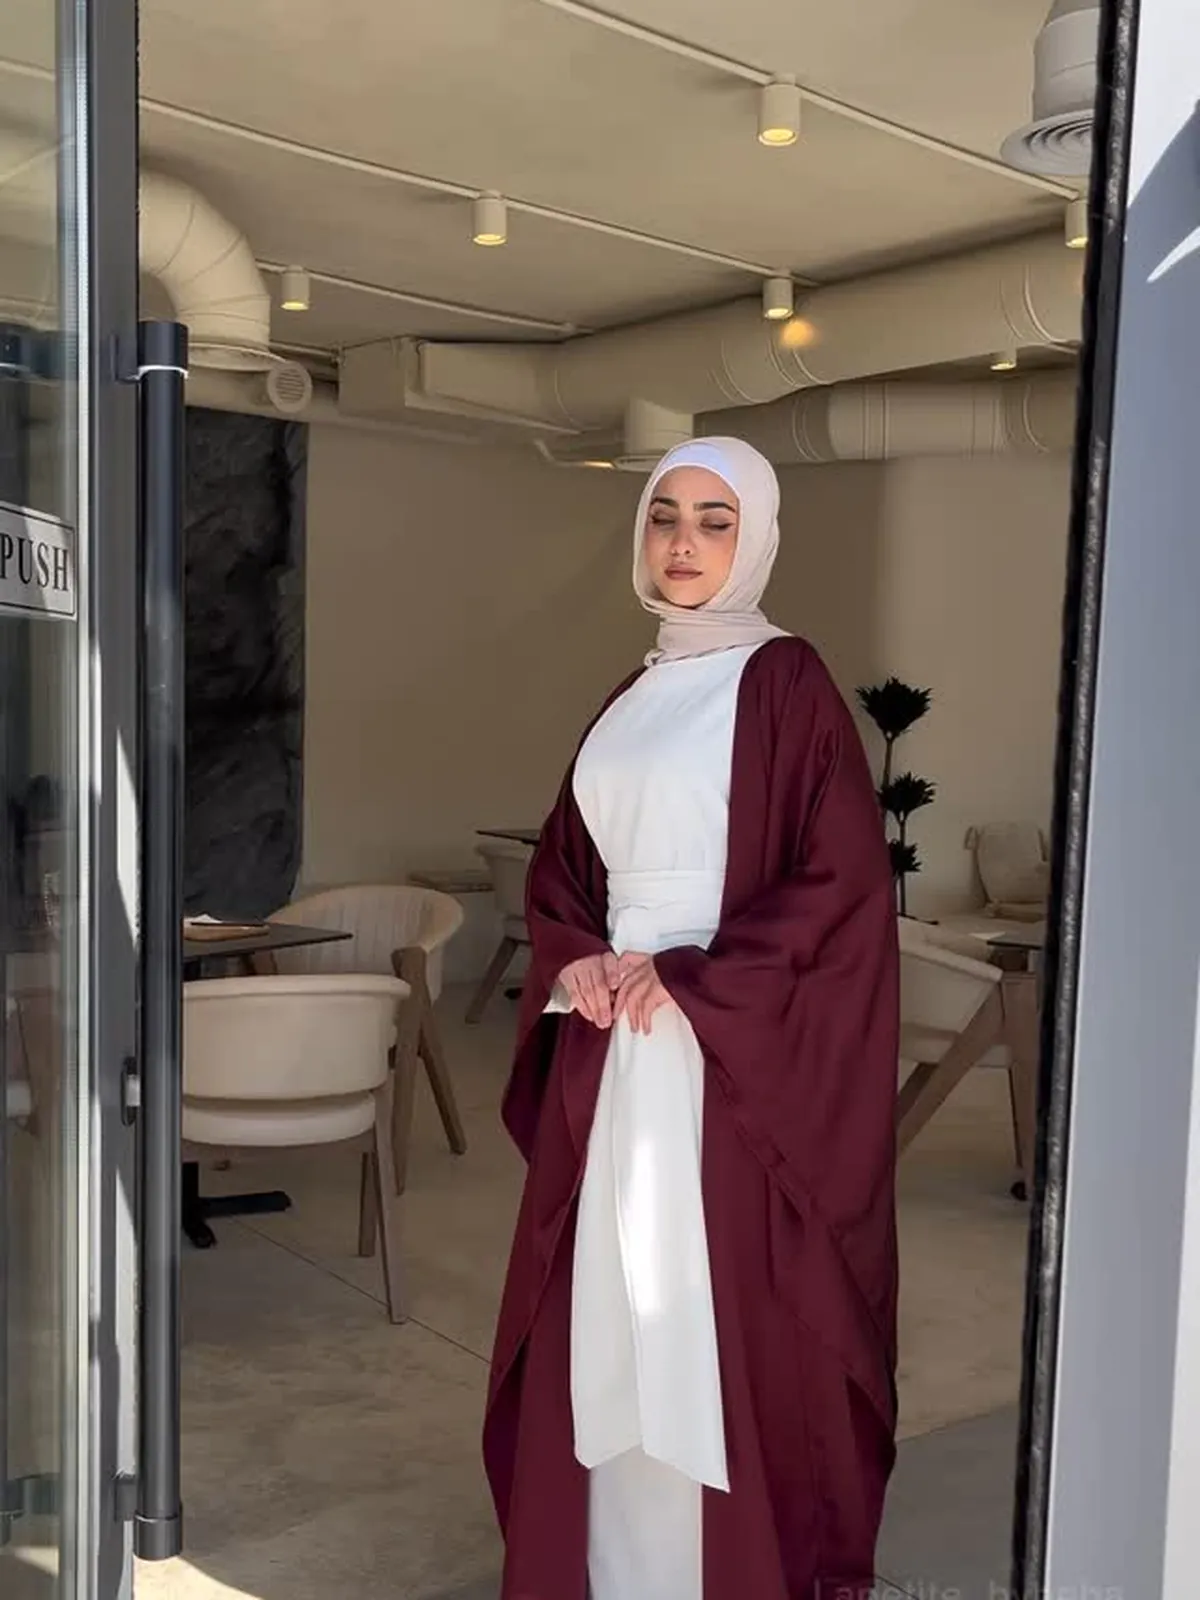
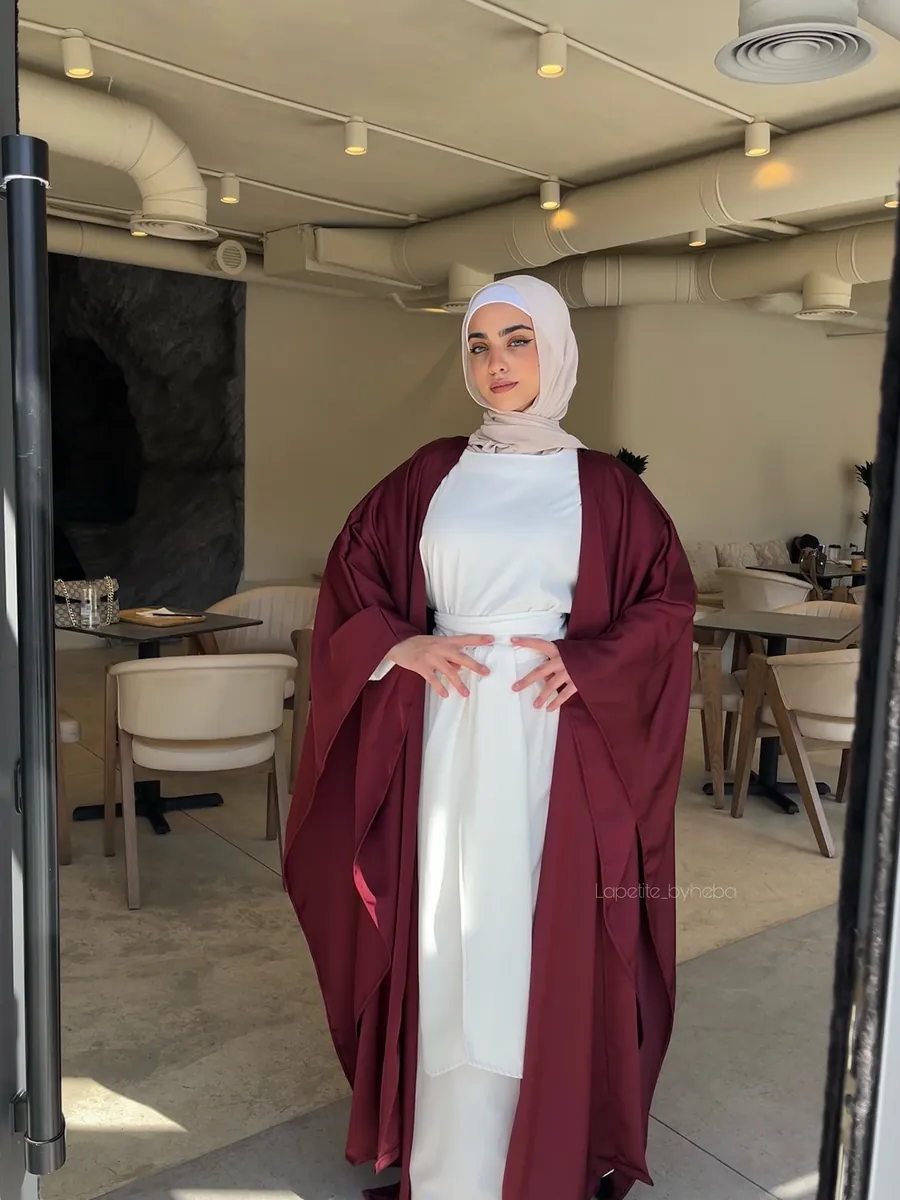
Home: new Eid collection photo
Claude-Session: https://claude.ai/code/session_01BthQbNvVi6NE6pZApNpCN3

diff --git a/js/tones.js b/js/tones.js
@@ -328,7 +328,7 @@ LP.tones = {
   "cat-tops": "847864b1a595",
   "cat-vests": "907e6b998b82",
   "col-autumn": "816d5e8f8884",
-  "col-eid": "7a6e606c5a59",
+  "col-eid": "7c6f5c705d59",
   "col-ramadan": "757d7f7b715c",
   "col-summer": "85877d7e8085",
   "col-winter": "92867999938e",
